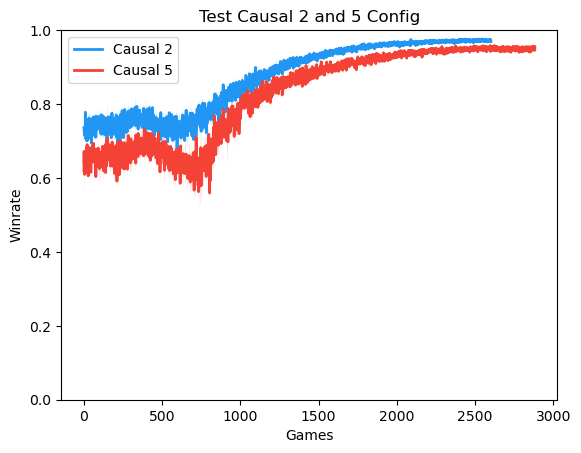
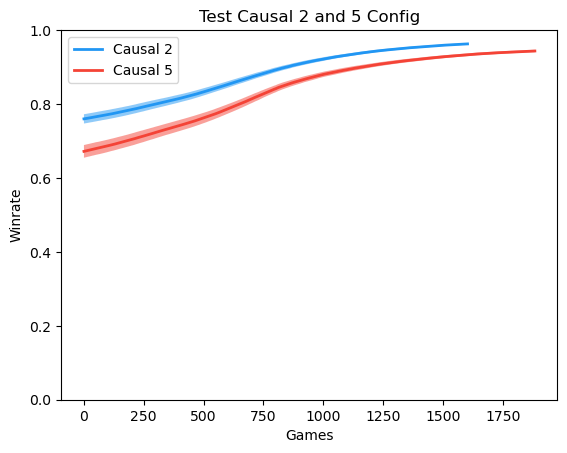
Fix

diff --git a/plotter.py b/plotter.py
@@ -32,7 +32,7 @@ def load(*colectors: List[Tuple[str, str, MaterialColor]], same_x: bool = False)
 
 
 class Plotter():
-    def __init__(self, title: str = 'Placeholder', xlabel: str = 'Games', ylabel: str = "Winrate", loc: Loc = Loc.upperLeft, ylim: Tuple[float, float] = (0, 1), keys: Tuple[float, float] = (0, 0)):
+    def __init__(self, title: str = 'Placeholder', xlabel: str = 'Games', ylabel: str = "Winrate", loc: Loc = Loc.upperLeft, ylim: Tuple[float, float] = (0, 1), keys: Tuple[float, float] = (0, 0), normalize: int = 1):
         self.plt = plt
         self.loc: str = loc.value
         self.keys: Tuple[float, float] = keys
@@ -41,6 +41,7 @@ class Plotter():
         self.title: str = title
         self.plt.xlabel(xlabel)
         self.plt.ylabel(ylabel)
+        self.N: int = normalize
 
         def varPlot(name: str, collectors: List[Collector], color: MaterialColor, meanVar: bool = False):
             if not collectors:
@@ -53,6 +54,7 @@ class Plotter():
                 data = np.array(data)
                 y = np.mean(data, axis=0)
                 sd = np.std(data, axis=0)
+                y, sd = self.normalize(y, sd)
                 x = np.arange(1, len(y) + 1)
                 self.plt.plot(x, y, lw=2, label=name, color='#%02x%02x%02x' % color.color, zorder=2)
                 if meanVar:
@@ -79,9 +81,13 @@ class Plotter():
             self.plt.savefig(f"plots/{self.title.replace(' ', '_')}.png", bbox_inches='tight')
         self.plt.clf()
 
+    def normalize(self, *arrays):
+        for array in arrays:
+            yield np.convolve(array, np.ones(self.N)/self.N, mode='valid')
+
 
 class PlotConfig:
-    def __init__(self, data: List[Tuple[str, str, MaterialColor]], same_x: bool = False, title: str = 'Placeholder', xlabel: str = 'Games', ylabel: str = "Winrate", loc: Loc = Loc.upperLeft, ylim: Tuple[float, float] = (0, 1), keys: Tuple[float, float] = (0, 0)) -> None:
+    def __init__(self, data: List[Tuple[str, str, MaterialColor]], same_x: bool = False, title: str = 'Placeholder', xlabel: str = 'Games', ylabel: str = "Winrate", loc: Loc = Loc.upperLeft, ylim: Tuple[float, float] = (0, 1), keys: Tuple[float, float] = (0, 0), normalize: int = 1) -> None:
         self.data: List[Tuple[str, str, MaterialColor]] = data
         self.same_x: bool = same_x
         self.title: str = title
@@ -90,9 +96,10 @@ class PlotConfig:
         self.loc: Loc = loc
         self.ylim: Tuple[float, float] = ylim
         self.keys: Tuple[float, float] = keys
+        self.normalize: int = normalize
         self.createPlot()
 
     def createPlot(self):
-        with Plotter(title=self.title, xlabel=self.xlabel, ylabel=self.ylabel, loc=self.loc, ylim=self.ylim, keys=self.keys) as plt:
+        with Plotter(title=self.title, xlabel=self.xlabel, ylabel=self.ylabel, loc=self.loc, ylim=self.ylim, keys=self.keys, normalize=self.normalize) as plt:
             for name, collectors, color in load(*self.data):
                 plt.varPlot(name, collectors, color)

diff --git a/createPlots.py b/createPlots.py
@@ -6,8 +6,21 @@ with Plotter(title="Test Causal 2 and 5") as plt:
 
 PlotConfig(
     title="Test Causal 2 and 5 Config",
+    normalize=1000,
     data=[
         ('causal2_demo', "Causal 2", Colors.blue),
         ('causal5_demo', "Causal 5", Colors.red),
     ]
+)
+
+PlotConfig(
+    title="Test Causal",
+    normalize=50,
+    loc=Loc.lowerRight,
+    data=[
+        ('causal2_demo', "Causal 2", Colors.blue),
+        ('causal5_demo', "Causal 5", Colors.red),
+        ('causal6_demo', "Causal 6", Colors.green),
+        ('causal7_demo', "Causal 7", Colors.brown),
+    ],
 )
